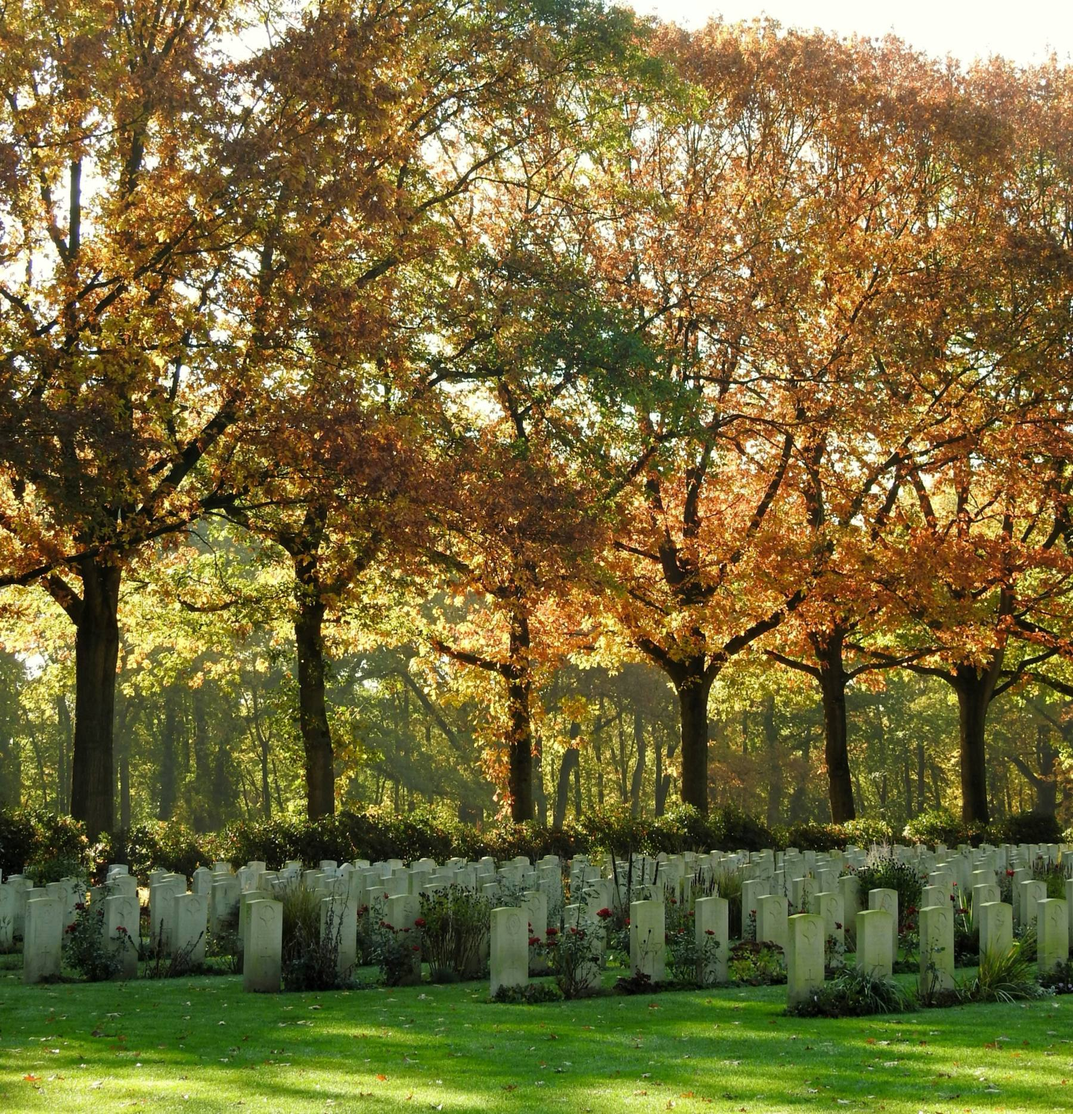
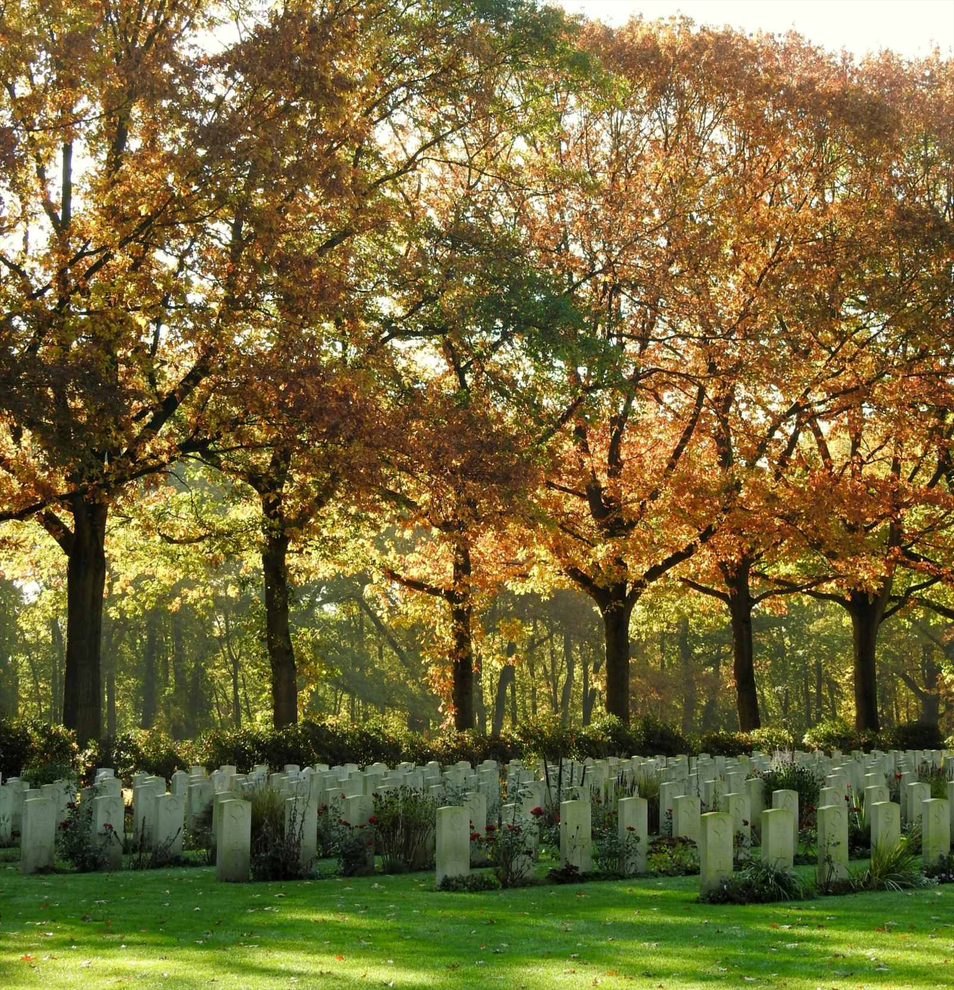
Kontakt: lettere bilder, bredere skjema som får plass på laptop, lagdelte bølger
Bilder:
- assets/kontakt-bred.jpg: 1600 px, 448 kB (før 839 kB). Lett utjevning.
- assets/kontakt-mobil.jpg: 900 px, 179 kB, brukes under 700 px via media
  query. Mobil henter bare denne. Begge laget fra originalen, samme utsnitt.
- assets/kontakt.jpg slettet (ble ikke brukt).

Skjema (PC):
- Kortet er 640 px bredt med to felt i bredden (Fornavn | Etternavn,
  E-post | Telefon, Kirkegård | Emne), lavere meldingsboks og samtykke ved
  siden av Send-knappen. Hele kortet er ca. 570 px høyt og får plass på
  laptopskjermer fra 1366×768. To kolonner fra 1100 px, stablet under.
  Felt, navn, validering og API-kall er uendret; mobil ser ut som før.

Bølger:
- c-t5b.svg (øverst i kontaktdelen): nytt lysere grønt lag (#2F5A40) under
  kremfargen, så steinene og bladene som henger ned ligger mot grønt.
- Ny c-t6b.svg mot footeren, bygd som bølgen under toppbildet: toning til
  mørk grønn, mørkt og lysere grønt lag, footerbølgen med blomstene fra c-t6.

diff --git a/index.html b/index.html
@@ -291,15 +291,19 @@
     @media (max-width:1024px){.gt-compo-desk{display:none}.gt-compo-mob{display:block}}
     @media (max-width:640px){:root{--fs-min:16px;--tg-lead:32ch}}
     @media (max-width:480px){:root{--side-dir:row;--side-align:center;--side-gap:10px}}
-    /* Kontaktdelen: bildet over hele bredden med tekstboks og skjema oppå. To kolonner fra 920 px (smalere blir
-       tekstboksen for trang ved siden av et 460 px skjema), stablet under. Under 700 px: bildet høyere opp og
-       gradienten loddrett. Luft: ca. 120 px mellom boksene og bølgene over og under. */
-    .gt-kontakt{background-color:#123B2E;background-image:linear-gradient(90deg,rgba(11,33,25,.55) 0%,rgba(11,33,25,.15) 45%,rgba(11,33,25,.05) 100%),url(assets/kontakt-bred.jpg);background-size:cover;background-position:center 82%;background-repeat:no-repeat;padding:calc(max(9.72vw,120px) + 72px) 28px calc(max(9.72vw,120px) + 48px)}
-    .gt-kontakt-grid{max-width:1180px;margin:0 auto;display:grid;grid-template-columns:1fr 460px;gap:48px;align-items:start}
+    /* Kontaktdelen: bildet over hele bredden med tekstboks og skjema oppå. To kolonner fra 1100 px (smalere blir
+       tekstboksen for trang ved siden av et 640 px skjema), stablet under. På PC har skjemaet to felt i bredden og en
+       lavere meldingsboks, så hele kortet får plass på en laptopskjerm (1366×768 og større). Under 700 px: bildet høyere opp og
+       gradienten loddrett. Luft: ca. 120 px mellom boksene og bølgene over og under. Bølgen ned mot footeren er
+       patterns/c-t6b.svg (bygd som bølgen under toppbildet, derfor like høy: max(15.28vw,200px)). */
+    .gt-kontakt{background-color:#123B2E;background-image:linear-gradient(90deg,rgba(11,33,25,.55) 0%,rgba(11,33,25,.15) 45%,rgba(11,33,25,.05) 100%),url(assets/kontakt-bred.jpg);background-size:cover;background-position:center 82%;background-repeat:no-repeat;padding:calc(max(9.72vw,120px) + 96px) 28px calc(max(15.28vw,200px) + 48px)}
+    .gt-kontakt-grid{max-width:1180px;margin:0 auto;display:grid;grid-template-columns:minmax(0,1fr) 640px;gap:48px;align-items:start}
     .gt-kontakt-tekst{background:rgba(18,59,46,.92);border-radius:22px;padding:40px;max-width:500px}
-    .gt-kontakt-skjema{background:#FBF4EA;color:#241D18;border-radius:22px;padding:clamp(24px,3vw,40px);box-shadow:0 24px 60px rgba(0,0,0,.28);width:460px}
-    @media (max-width:919px){.gt-kontakt-grid{grid-template-columns:minmax(0,1fr);max-width:560px}.gt-kontakt-tekst{max-width:none}.gt-kontakt-skjema{width:auto}}
-    @media (max-width:699px){.gt-kontakt{background-image:linear-gradient(180deg,rgba(11,33,25,0) 0%,rgba(11,33,25,.45) 100%),url(assets/kontakt-bred.jpg);background-position:center 20%;padding-left:16px;padding-right:16px}.gt-kontakt-tekst{padding:28px 24px}}
+    .gt-kontakt-skjema{background:#FBF4EA;color:#241D18;border-radius:22px;padding:clamp(24px,3vw,28px);box-shadow:0 24px 60px rgba(0,0,0,.28);width:640px}
+    .gt-kontakt-form{display:grid;grid-template-columns:repeat(auto-fit,minmax(min(100%,220px),1fr));gap:16px}
+    @media (min-width:1100px){.gt-kontakt-skjema textarea{height:96px}}
+    @media (max-width:1099px){.gt-kontakt-grid{grid-template-columns:minmax(0,1fr);max-width:560px}.gt-kontakt-tekst{max-width:none}.gt-kontakt-skjema{width:auto}}
+    @media (max-width:699px){.gt-kontakt{background-image:linear-gradient(180deg,rgba(11,33,25,0) 0%,rgba(11,33,25,.45) 100%),url(assets/kontakt-mobil.jpg);background-position:center 20%;padding-left:16px;padding-right:16px}.gt-kontakt-tekst{padding:28px 24px}}
   </style>
 </helmet>
 
@@ -639,13 +643,13 @@
 
     <div class="gt-kontakt-skjema">
       <sc-if value="{{ notSent }}" hint-placeholder-val="{{ true }}">
-        <form onSubmit="{{ submit }}" style="display:flex;flex-direction:column;gap:16px">
-          <div style="display:grid;grid-template-columns:repeat(auto-fit,minmax(min(100%,180px),1fr));gap:16px">
+        <form onSubmit="{{ submit }}" class="gt-kontakt-form">
+          <div style="display:contents">
             <label style="display:flex;flex-direction:column;gap:6px;font-size:13px;font-weight:600;letter-spacing:0.04em;color:#123B2E">Fornavn<input type="text" name="fornavn" placeholder="Ola" required style="width:100%;padding:14px 16px;border:1.5px solid #D6C7AE;border-radius:12px;background:#FFFFFF;font:inherit;font-size:16px;font-weight:400;letter-spacing:0;color:#241D18;outline:none" style-focus="border-color:#123B2E;box-shadow:0 0 0 3px rgba(18,59,46,0.15)"></label>
             <label style="display:flex;flex-direction:column;gap:6px;font-size:13px;font-weight:600;letter-spacing:0.04em;color:#123B2E">Etternavn<input type="text" name="etternavn" placeholder="Nordmann" required style="width:100%;padding:14px 16px;border:1.5px solid #D6C7AE;border-radius:12px;background:#FFFFFF;font:inherit;font-size:16px;font-weight:400;letter-spacing:0;color:#241D18;outline:none" style-focus="border-color:#123B2E;box-shadow:0 0 0 3px rgba(18,59,46,0.15)"></label>
           </div>
           <label style="display:flex;flex-direction:column;gap:6px;font-size:13px;font-weight:600;letter-spacing:0.04em;color:#123B2E">E-postadresse<input type="email" name="epost" placeholder="ola@eksempel.no" required style="width:100%;padding:14px 16px;border:1.5px solid #D6C7AE;border-radius:12px;background:#FFFFFF;font:inherit;font-size:16px;font-weight:400;letter-spacing:0;color:#241D18;outline:none" style-focus="border-color:#123B2E;box-shadow:0 0 0 3px rgba(18,59,46,0.15)"></label>
-          <div style="display:grid;grid-template-columns:repeat(auto-fit,minmax(min(100%,180px),1fr));gap:16px">
+          <div style="display:contents">
             <label style="display:flex;flex-direction:column;gap:6px;font-size:13px;font-weight:600;letter-spacing:0.04em;color:#123B2E">Telefon (valgfritt)<input type="tel" name="telefon" placeholder="+47" style="width:100%;padding:14px 16px;border:1.5px solid #D6C7AE;border-radius:12px;background:#FFFFFF;font:inherit;font-size:16px;font-weight:400;letter-spacing:0;color:#241D18;outline:none" style-focus="border-color:#123B2E;box-shadow:0 0 0 3px rgba(18,59,46,0.15)"></label>
             <label style="display:flex;flex-direction:column;gap:6px;font-size:13px;font-weight:600;letter-spacing:0.04em;color:#123B2E">Kirkegård / sted<input type="text" name="kirkegard" placeholder="f.eks. Våler kirkegård" style="width:100%;padding:14px 16px;border:1.5px solid #D6C7AE;border-radius:12px;background:#FFFFFF;font:inherit;font-size:16px;font-weight:400;letter-spacing:0;color:#241D18;outline:none" style-focus="border-color:#123B2E;box-shadow:0 0 0 3px rgba(18,59,46,0.15)"></label>
           </div>
@@ -659,12 +663,12 @@
               <option>Annet</option>
             </select>
           </label>
-          <label style="display:flex;flex-direction:column;gap:6px;font-size:13px;font-weight:600;letter-spacing:0.04em;color:#123B2E">Melding<textarea name="melding" rows="5" required placeholder="Skriv meldingen din her …" style="width:100%;padding:14px 16px;border:1.5px solid #D6C7AE;border-radius:12px;background:#FFFFFF;font:inherit;font-size:16px;font-weight:400;letter-spacing:0;color:#241D18;outline:none;resize:vertical" style-focus="border-color:#123B2E;box-shadow:0 0 0 3px rgba(18,59,46,0.15)"></textarea></label>
+          <label style="grid-column:1/-1;display:flex;flex-direction:column;gap:6px;font-size:13px;font-weight:600;letter-spacing:0.04em;color:#123B2E">Melding<textarea name="melding" rows="5" required placeholder="Skriv meldingen din her …" style="width:100%;padding:14px 16px;border:1.5px solid #D6C7AE;border-radius:12px;background:#FFFFFF;font:inherit;font-size:16px;font-weight:400;letter-spacing:0;color:#241D18;outline:none;resize:vertical" style-focus="border-color:#123B2E;box-shadow:0 0 0 3px rgba(18,59,46,0.15)"></textarea></label>
           <label style="display:flex;gap:12px;align-items:flex-start;font-size:var(--fs-min,13.5px);line-height:1.5;color:#4A3F38"><input type="checkbox" required style="margin-top:3px;width:18px;height:18px;accent-color:#123B2E;flex:none"><span>Jeg samtykker til at Grønn Trøst lagrer mine opplysninger for å besvare henvendelsen. Du kan melde deg av når som helst.</span></label>
           <!-- Honningfelt mot roboter: usynlig for folk, roboter fyller det ut og avvises stille -->
           <div style="position:absolute;left:-9999px;top:auto;width:1px;height:1px;overflow:hidden" aria-hidden="true"><label>Nettside<input type="text" name="nettside" tabindex="-1" autocomplete="off"></label></div>
-          <button type="submit" disabled="{{ sending }}" style="margin-top:6px;background:#8E3B2F;color:#F3E9D8;border:0;padding:18px 24px;border-radius:999px;font-weight:600;font-size:16px;cursor:pointer;transition:background .15s ease" style-hover="background:#6F2C22">{{ sendLabel }}</button>
-          <sc-if value="{{ sendError }}" hint-placeholder-val="{{ false }}"><p style="margin:0;font-size:var(--fs-min,14px);color:#8E3B2F">{{ sendErrorText }} Har det hast, ring oss på <a href="tel:+4795734512" style="color:#8E3B2F;font-weight:600">+47 957 34 512</a>.</p></sc-if>
+          <button type="submit" disabled="{{ sending }}" style="align-self:center;margin-top:6px;background:#8E3B2F;color:#F3E9D8;border:0;padding:18px 24px;border-radius:999px;font-weight:600;font-size:16px;cursor:pointer;transition:background .15s ease" style-hover="background:#6F2C22">{{ sendLabel }}</button>
+          <sc-if value="{{ sendError }}" hint-placeholder-val="{{ false }}"><p style="grid-column:1/-1;margin:0;font-size:var(--fs-min,14px);color:#8E3B2F">{{ sendErrorText }} Har det hast, ring oss på <a href="tel:+4795734512" style="color:#8E3B2F;font-weight:600">+47 957 34 512</a>.</p></sc-if>
         </form>
       </sc-if>
       <sc-if value="{{ sent }}" hint-placeholder-val="{{ false }}">
@@ -680,7 +684,7 @@
 </section>
 
 <footer data-screen-label="Footer" style="position:relative;background:#0B2119;color:#D9CDB8;padding:clamp(40px,5vw,64px) 28px 40px">
-  <sc-if value="{{ showBands }}" hint-placeholder-val="{{ true }}"><img src="patterns/c-t6.svg" alt="" aria-hidden="true" loading="lazy" decoding="async" style="position:absolute;left:0;right:0;bottom:100%;width:100%;height:max(9.72vw,120px);margin-bottom:-1px;display:block;pointer-events:none;z-index:2"></sc-if>
+  <sc-if value="{{ showBands }}" hint-placeholder-val="{{ true }}"><img src="patterns/c-t6b.svg" alt="" aria-hidden="true" loading="lazy" decoding="async" style="position:absolute;left:0;right:0;bottom:100%;width:100%;height:max(15.28vw,200px);margin-bottom:-1px;display:block;pointer-events:none;z-index:2"></sc-if>
   <div style="max-width:1280px;margin:0 auto;display:flex;flex-wrap:wrap;gap:32px;align-items:center;justify-content:space-between">
     <img src="assets/logo.svg" alt="Grønn Trøst – Blomster som hedrer minnet" loading="lazy" decoding="async" style="height:64px;width:auto;filter:invert(0.92) sepia(0.35) saturate(0.6) brightness(1.05)">
     <nav style="display:flex;flex-wrap:wrap;gap:24px">

diff --git a/LES-MEG.md b/LES-MEG.md
@@ -13,12 +13,18 @@ Innholdet i denne mappen er hele nettsiden, klar til å legges rett i roten av G
 Skjemaet sender til /api/send-contact (samme funksjon som før), så det virker uten endringer
 så lenge RESEND_API_KEY fortsatt ligger i Vercel.
 
-Kontaktdelen har bildet assets/kontakt-bred.jpg over hele bredden, med tekstboksen og skjemaet
-oppå. Utseendet står i klassene `.gt-kontakt…` i `<style>` øverst i index.html: to kolonner fra
-920 px, stablet under, og fra 700 px og ned ligger bildet høyere (center 20 %) med loddrett
-gradient. Bølgen øverst er patterns/c-t5b.svg: samme form og blomster som c-t5, men med
-Spørsmål og svar-fargen over bølgen og gjennomsiktig under, og den ligger INNE i kontaktdelen
-så bildet synes rett under. Footeren (c-t6) er uendret. assets/kontakt.jpg brukes ikke lenger.
+Kontaktdelen har et bilde over hele bredden, med tekstboksen og skjemaet oppå. Utseendet står i
+klassene `.gt-kontakt…` i `<style>` øverst i index.html:
+- Bildet: assets/kontakt-bred.jpg (1600 px, ≤ 450 kB) på PC og assets/kontakt-mobil.jpg (900 px,
+  ≤ 180 kB) under 700 px, der det også ligger høyere (center 20 %) med loddrett gradient. Begge er
+  laget fra originalen i Gronn-trost-bilder-original/kontakt.jpg. Nettleseren henter bare det ene.
+- To kolonner fra 1100 px, stablet under. Skjemaet er 640 px bredt med to felt i bredden og lav
+  meldingsboks på PC, så hele kortet (ca. 570 px) får plass på en laptopskjerm fra 1366×768.
+- Bølgen øverst er patterns/c-t5b.svg: samme form og blomster som c-t5, med Spørsmål og
+  svar-fargen over bølgen, et lysere grønt lag (#2F5A40) under den som steinene og bladene ligger
+  mot, og gjennomsiktig under det, så bildet synes. Den ligger INNE i kontaktdelen.
+- Bølgen ned mot footeren er patterns/c-t6b.svg, bygd som bølgen under toppbildet (c-t1): toning
+  til mørk grønn, et mørkt og et lysere grønt lag, og footerbølgen med blomstene fra c-t6.
 
 ## Priser og bestilling
 - Pakker og kassepriser står i `packageDefs` og `KASSE`/`KASSE_HELAAR` i scriptet nederst i
